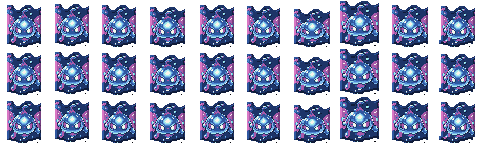
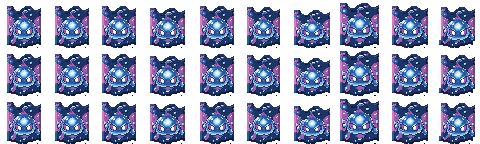
fix(art): ground echo boss and gold pickup

diff --git a/tools/build_cast_art_v13.py b/tools/build_cast_art_v13.py
@@ -243,6 +243,15 @@ def build_gold(out_root: Path) -> None:
 
     coin(9, 24)
     coin(21, 23)
+    # Pickups are rendered as objects resting on the dungeon floor.  Ground
+    # the finished cluster instead of leaving decorative transparent padding
+    # below it; otherwise the icon reads as hovering when scaled on mobile.
+    bb = im.getchannel("A").getbbox()
+    if bb:
+        cut = im.crop(bb)
+        grounded = Image.new("RGBA", (32, 32), (0, 0, 0, 0))
+        grounded.alpha_composite(cut, ((32 - cut.width) // 2, 32 - cut.height))
+        im = grounded
     target = out_root / "item"
     target.mkdir(parents=True, exist_ok=True)
     im.save(target / "gold00.png", optimize=True)
@@ -278,7 +287,9 @@ def build_mind_echo(out_root: Path) -> None:
         cut2 = im.crop(bb).resize((max(1, width), max(1, height)), Image.Resampling.NEAREST)
         stage = Image.new("RGBA", (48, 48), (0, 0, 0, 0))
         x = (48 - cut2.width) // 2 + dx
-        y = 47 - cut2.height + dy
+        # PIL's bounding-box bottom is exclusive, so 48-height (not
+        # 47-height) places the final opaque row at pixel 47.
+        y = 48 - cut2.height + dy
         stage.alpha_composite(cut2, (x, y))
         return stage
 
@@ -287,13 +298,13 @@ def build_mind_echo(out_root: Path) -> None:
     frames = []
     for col in range(10):
         if col == 0: frame = anchored_resize(base, bw, bh)
-        elif col == 1: frame = anchored_resize(base, bw, bh, dy=-1)          # breath
+        elif col == 1: frame = anchored_resize(base, bw, bh)                 # grounded breath
         elif col == 2: frame = anchored_resize(base, bw, bh, dx=-1)          # ripple left
         elif col == 3: frame = anchored_resize(base, bw + 1, bh - 2)         # compress
         elif col == 4: frame = anchored_resize(base, bw, bh, dx=1)           # ripple right
         elif col == 5: frame = anchored_resize(base, bw - 1, bh - 1)
         elif col == 6: frame = anchored_resize(base, bw + 2, bh - 4)         # gather copies
-        elif col == 7: frame = anchored_resize(base, min(46, bw + 5), min(47, bh + 3), dy=-1)  # echo burst
+        elif col == 7: frame = anchored_resize(base, min(46, bw + 5), min(47, bh + 3))  # echo burst
         elif col == 8: frame = anchored_resize(base, bw + 2, bh, dx=2)       # recoil
         else:
             # Hurt frame: upper body recoils while the lowest eight rows keep
